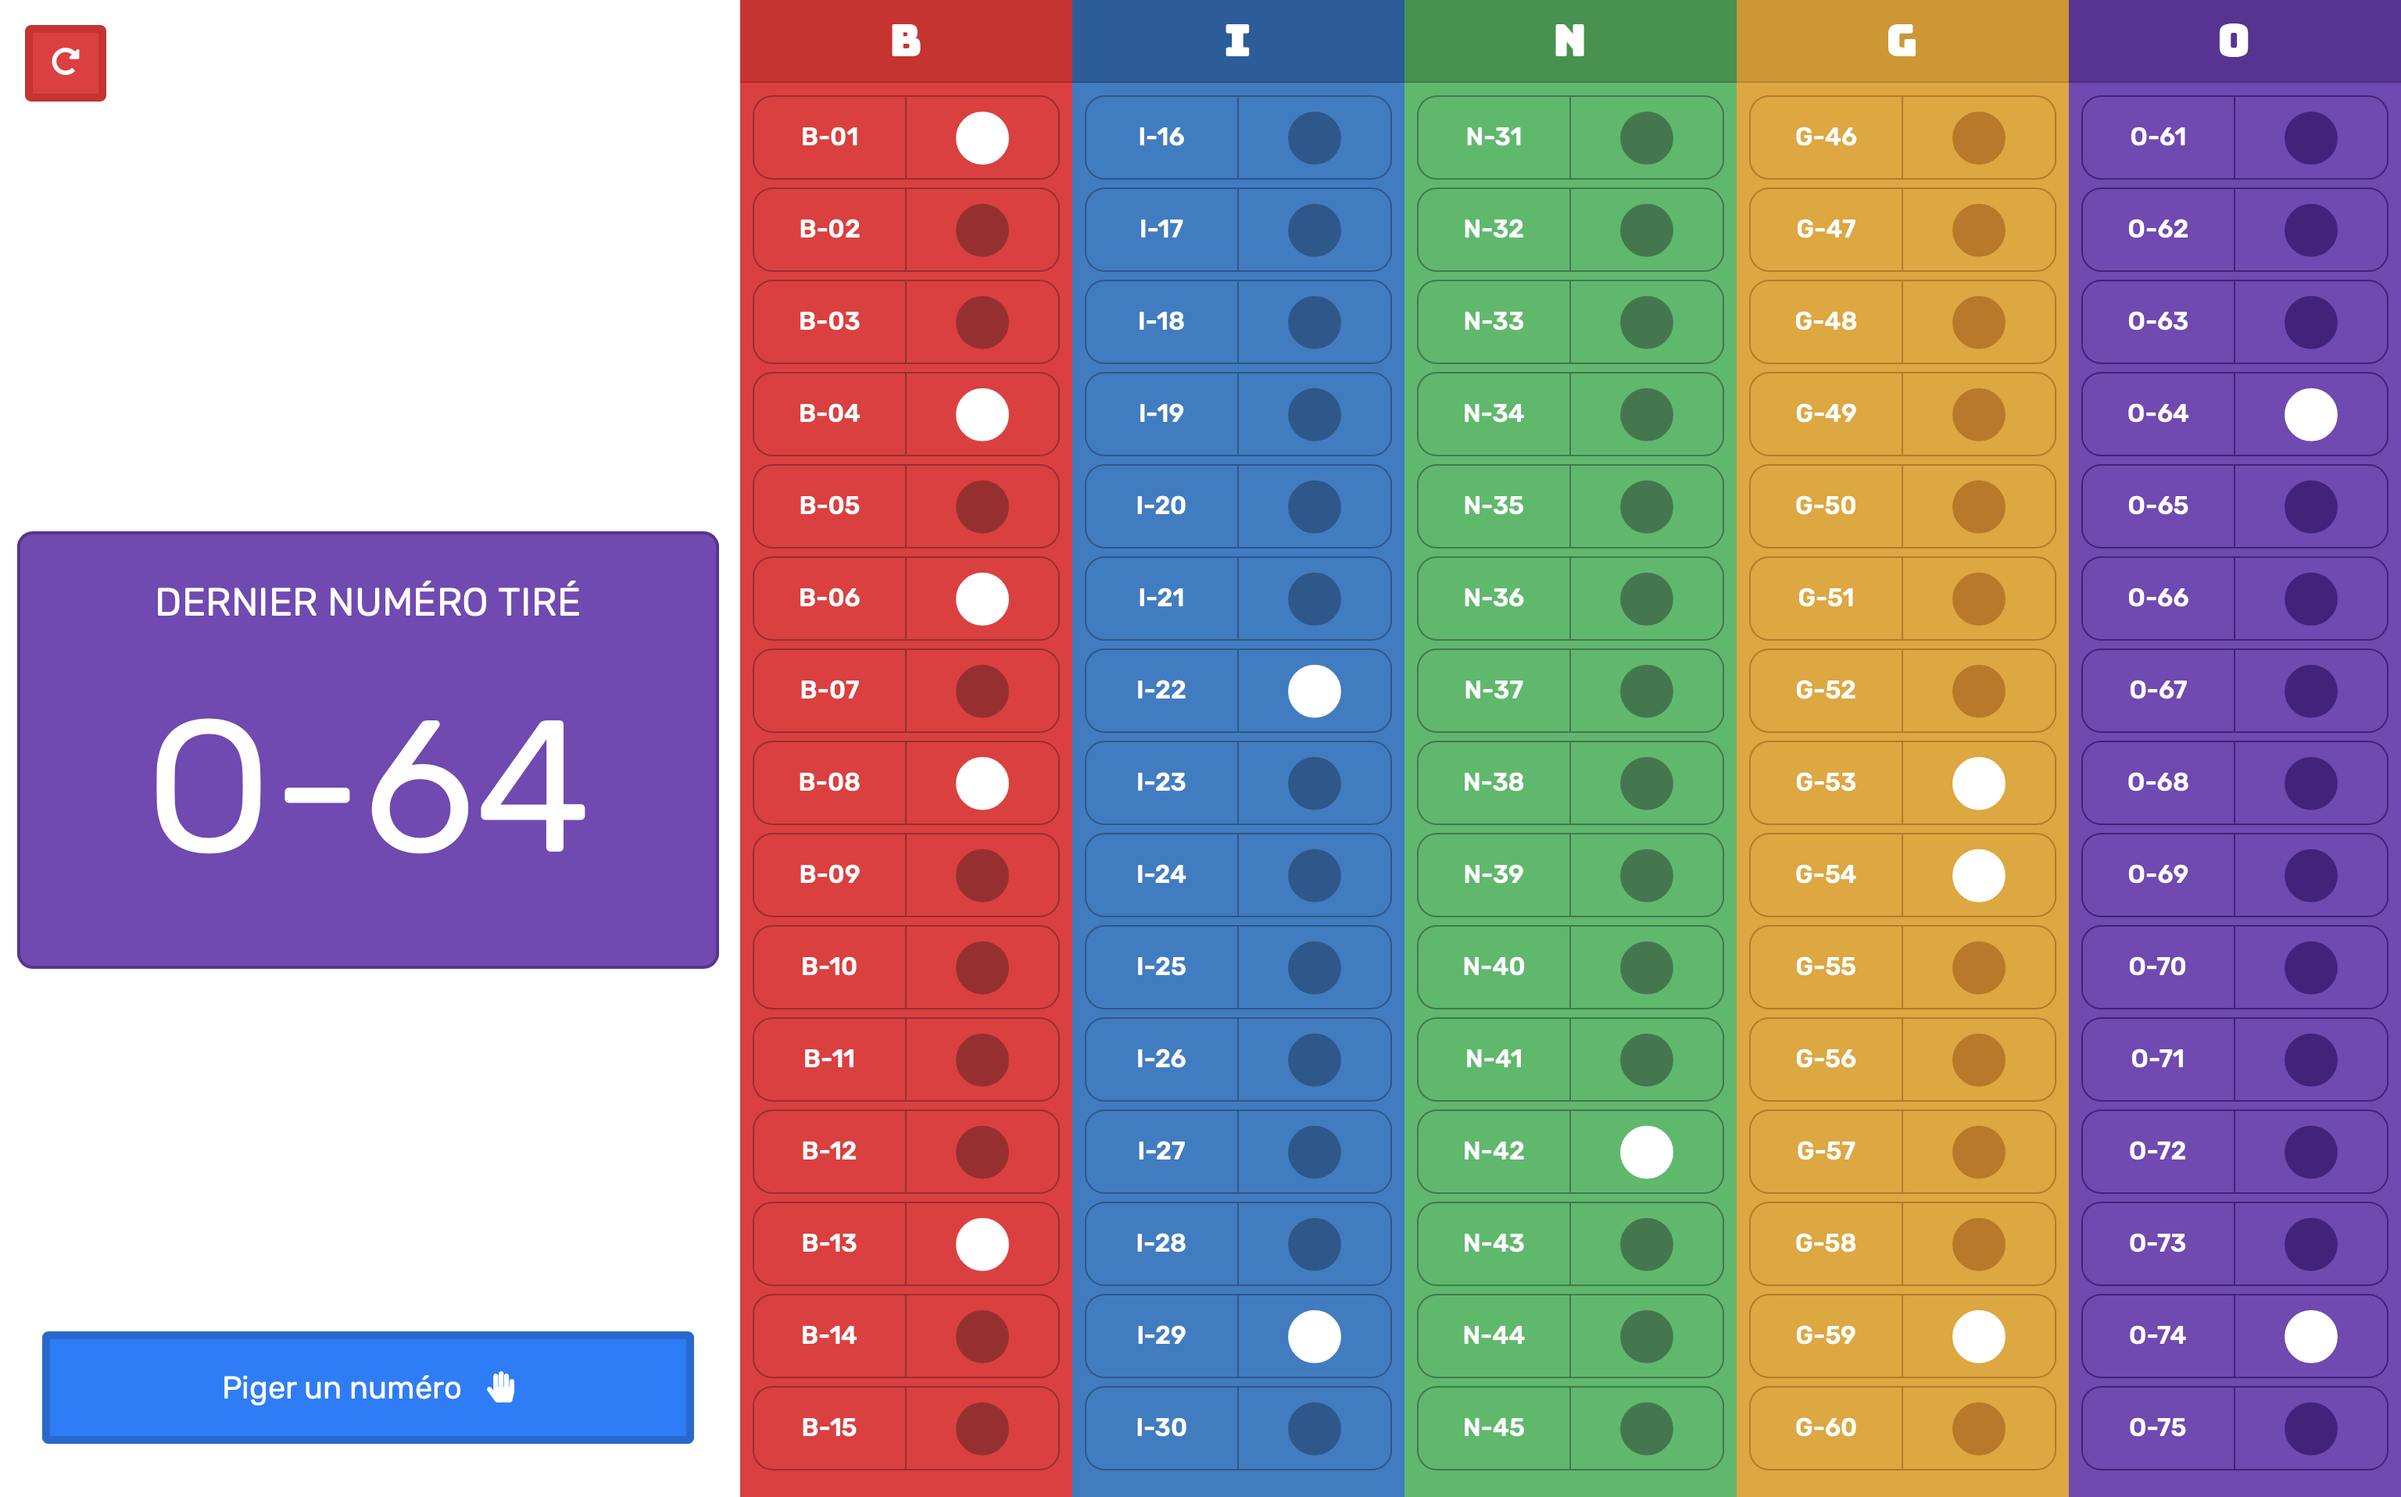
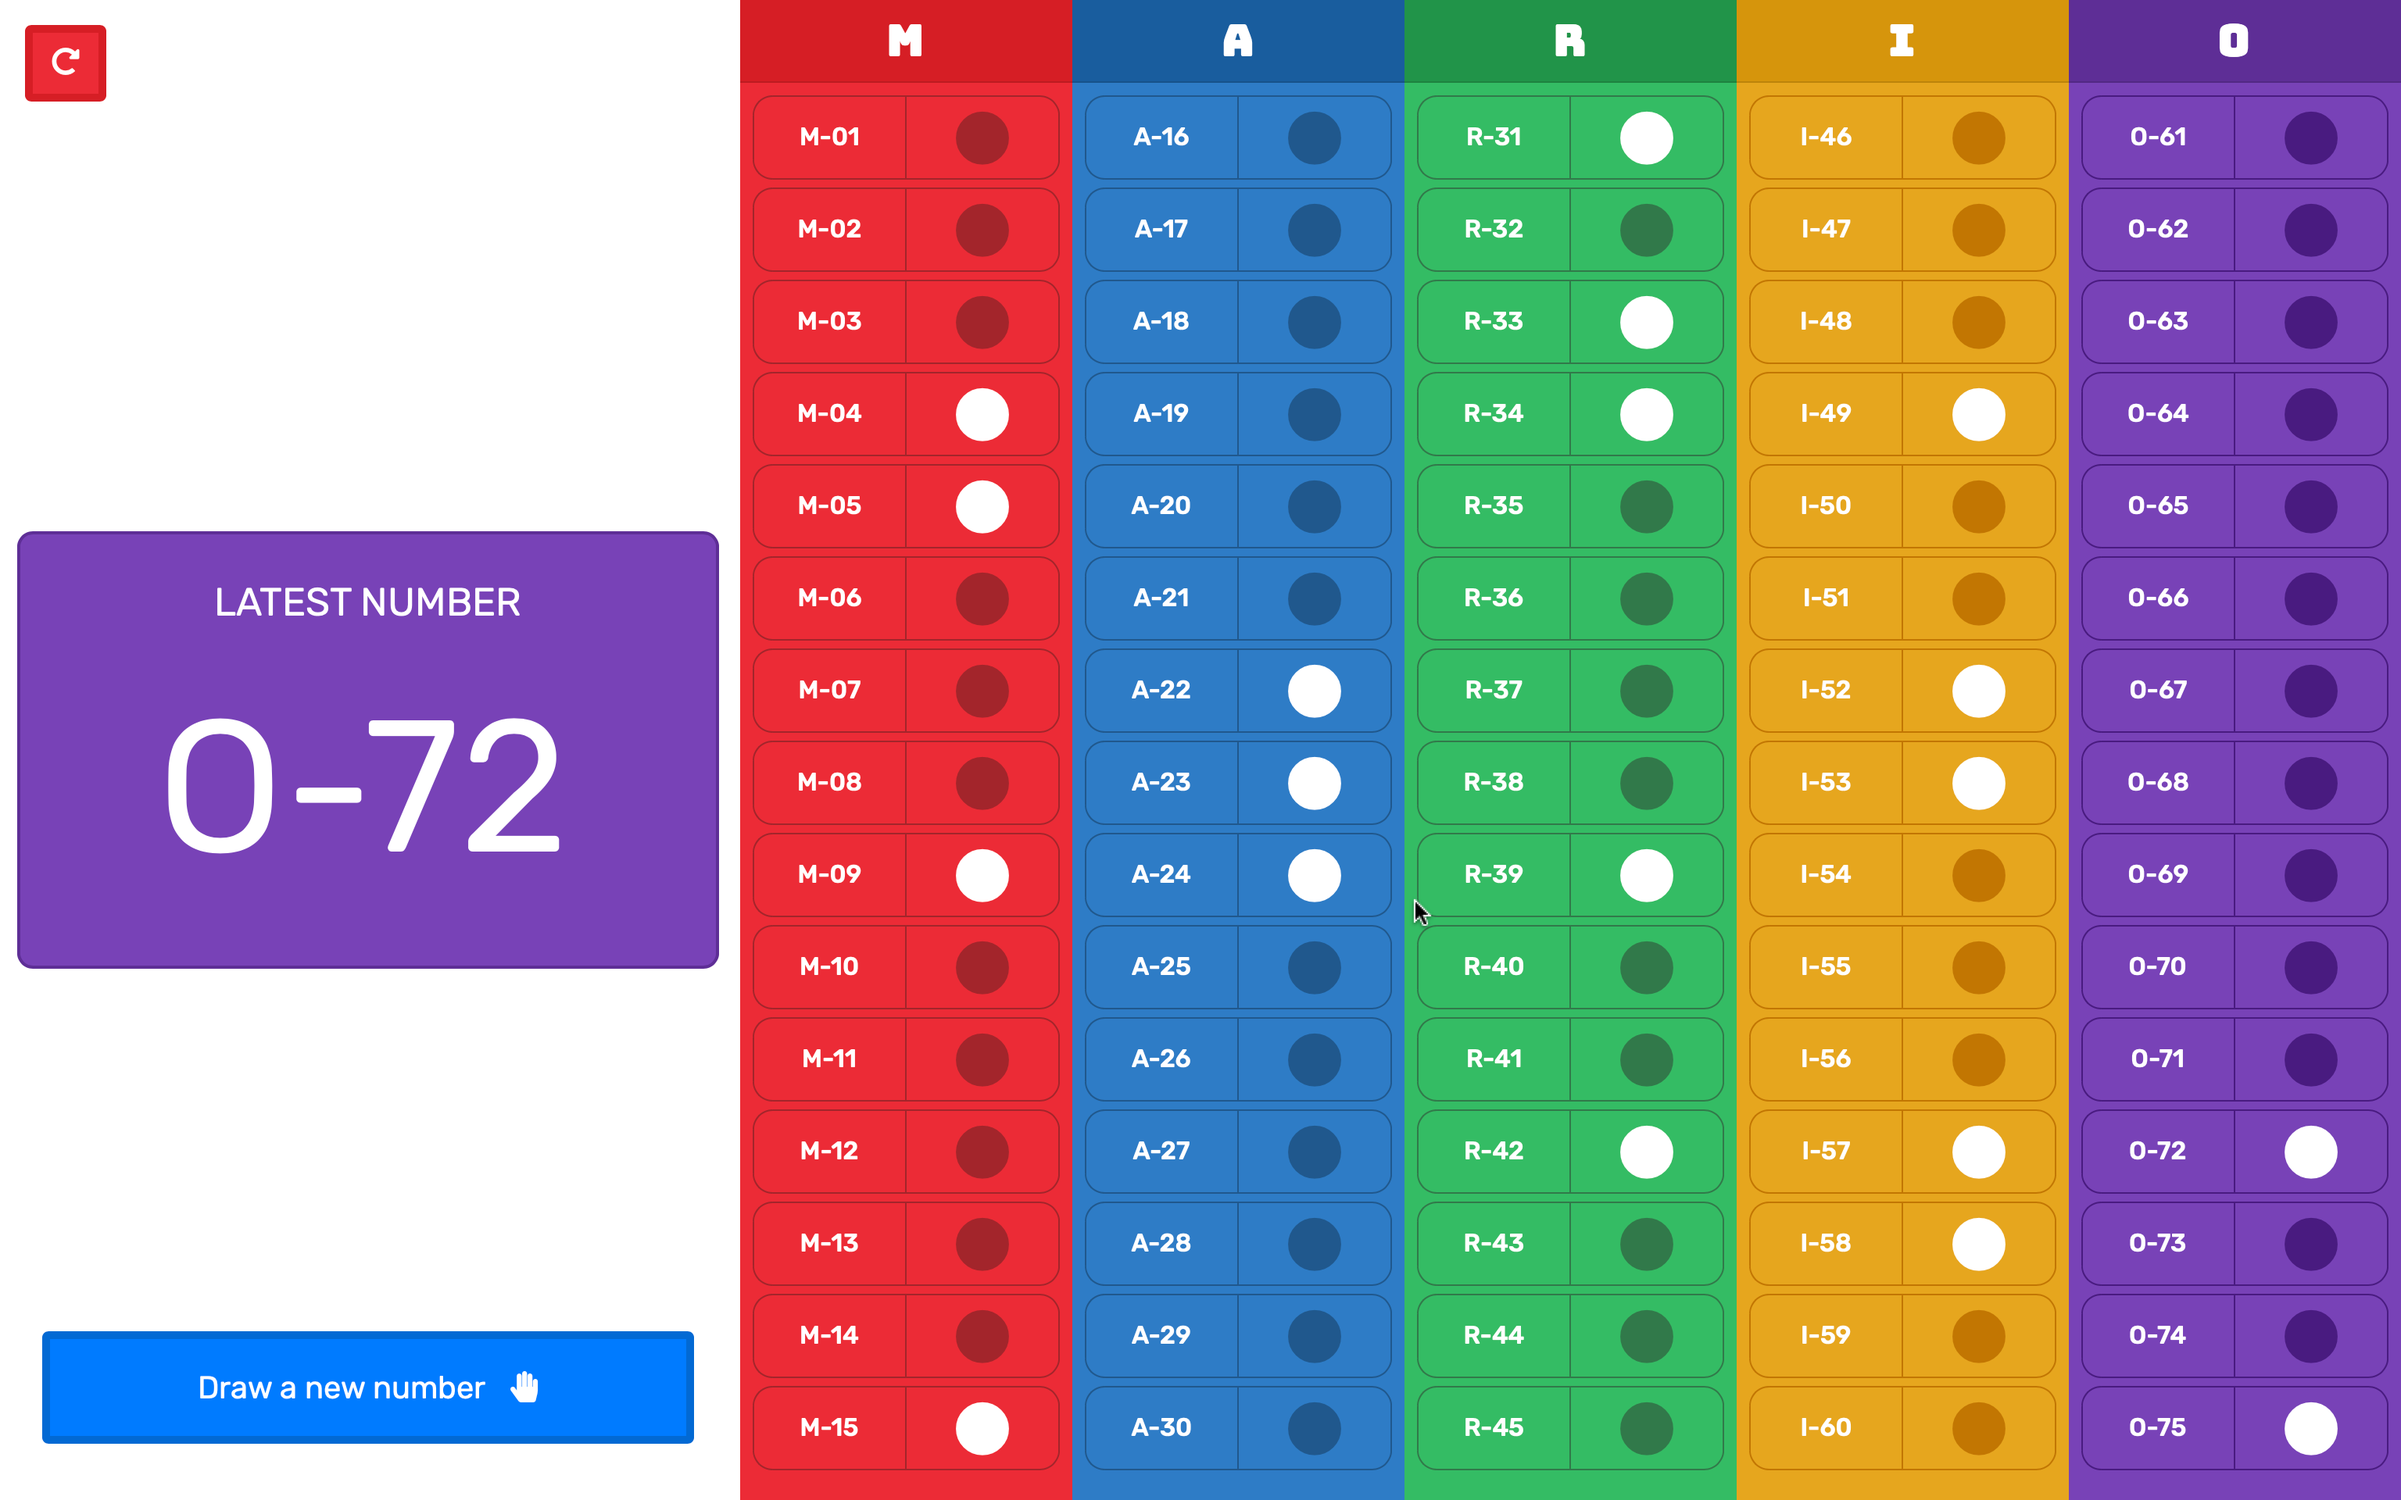
Change app language

diff --git a/src/app/components/bingo-grid/bingo-grid.component.ts b/src/app/components/bingo-grid/bingo-grid.component.ts
@@ -31,11 +31,11 @@ export class BingoGridComponent implements OnInit, OnDestroy {
 
     resetGame() {
         Swal.fire({
-            title: 'Recommencer la partie ?',
-            text: 'Êtes-vous certain de vouloir recommencer cette partie, tous les numéros seront perdus !',
+            title: 'Restart the game ?',
+            text: 'Are you sure you want to restart the game ? All the numbers that were drawn will be lost!',
             icon: 'question',
-            confirmButtonText: 'Oui',
-            cancelButtonText: 'Non',
+            confirmButtonText: 'Yes',
+            cancelButtonText: 'No',
             showCancelButton: true,
             cancelButtonColor : '#ec2c36'
         }).then((result: SweetAlertResult) => {
@@ -47,8 +47,8 @@ export class BingoGridComponent implements OnInit, OnDestroy {
 
     onGameFinished() {
         Swal.fire({
-            title: 'La partie est terminée !',
-            confirmButtonText: 'Nouvelle partie',
+            title: 'Game\'s over!',
+            confirmButtonText: 'New Game',
             confirmButtonColor: '#34bc64',
             allowEscapeKey: false,
             allowOutsideClick: false

diff --git a/src/app/components/bingo-grid/bingo-grid.component.html b/src/app/components/bingo-grid/bingo-grid.component.html
@@ -3,12 +3,12 @@
         <div class="col-md-2 side-pane">
             <button class="btn btn-danger m-3 reset" (click)="resetGame()">
                 <i class="fas fa-redo-alt"></i>
-                <span class="ml-3 btn-text">Recommencer</span>
+                <span class="ml-3 btn-text">Restart</span>
             </button>
             <app-current-number-tile></app-current-number-tile>
             <div class="button-wrapper px-3">
                 <button class="btn btn-primary btn-block p-3 next" (click)="getNextNumber()">
-                    Piger un numéro<i class="fas fa-hand-paper ml-3"></i>
+                    Draw a new number<i class="fas fa-hand-paper ml-3"></i>
                 </button>
             </div>
            

diff --git a/src/app/components/curent-number-fullscreen/current-number-fullscreen.component.html b/src/app/components/curent-number-fullscreen/current-number-fullscreen.component.html
@@ -1,6 +1,6 @@
 <div class="fullscreen-overlay bingo-col-{{colId}} text-center" [ngClass]="{'displayed': displayed}" #overlay>
     <div class="number-tile">
-        <div class="number-tile_title">PROCHAIN NUMÉRO :</div>
+        <div class="number-tile_title">NEXT NUMBER :</div>
         <div class="number-tile_number">{{currentNumber}}</div>
     </div>
 </div>

diff --git a/src/app/components/current-number-tile/current-number-tile.component.html b/src/app/components/current-number-tile/current-number-tile.component.html
@@ -1,4 +1,4 @@
 <div class="current-number-tile bingo-col-{{colId}}">
-    <div class="current-number-tile_title">DERNIER NUMÉRO TIRÉ</div>
+    <div class="current-number-tile_title">LATEST NUMBER</div>
     <div class="current-number-tile_number">{{currentNumber}}</div>
 </div>
